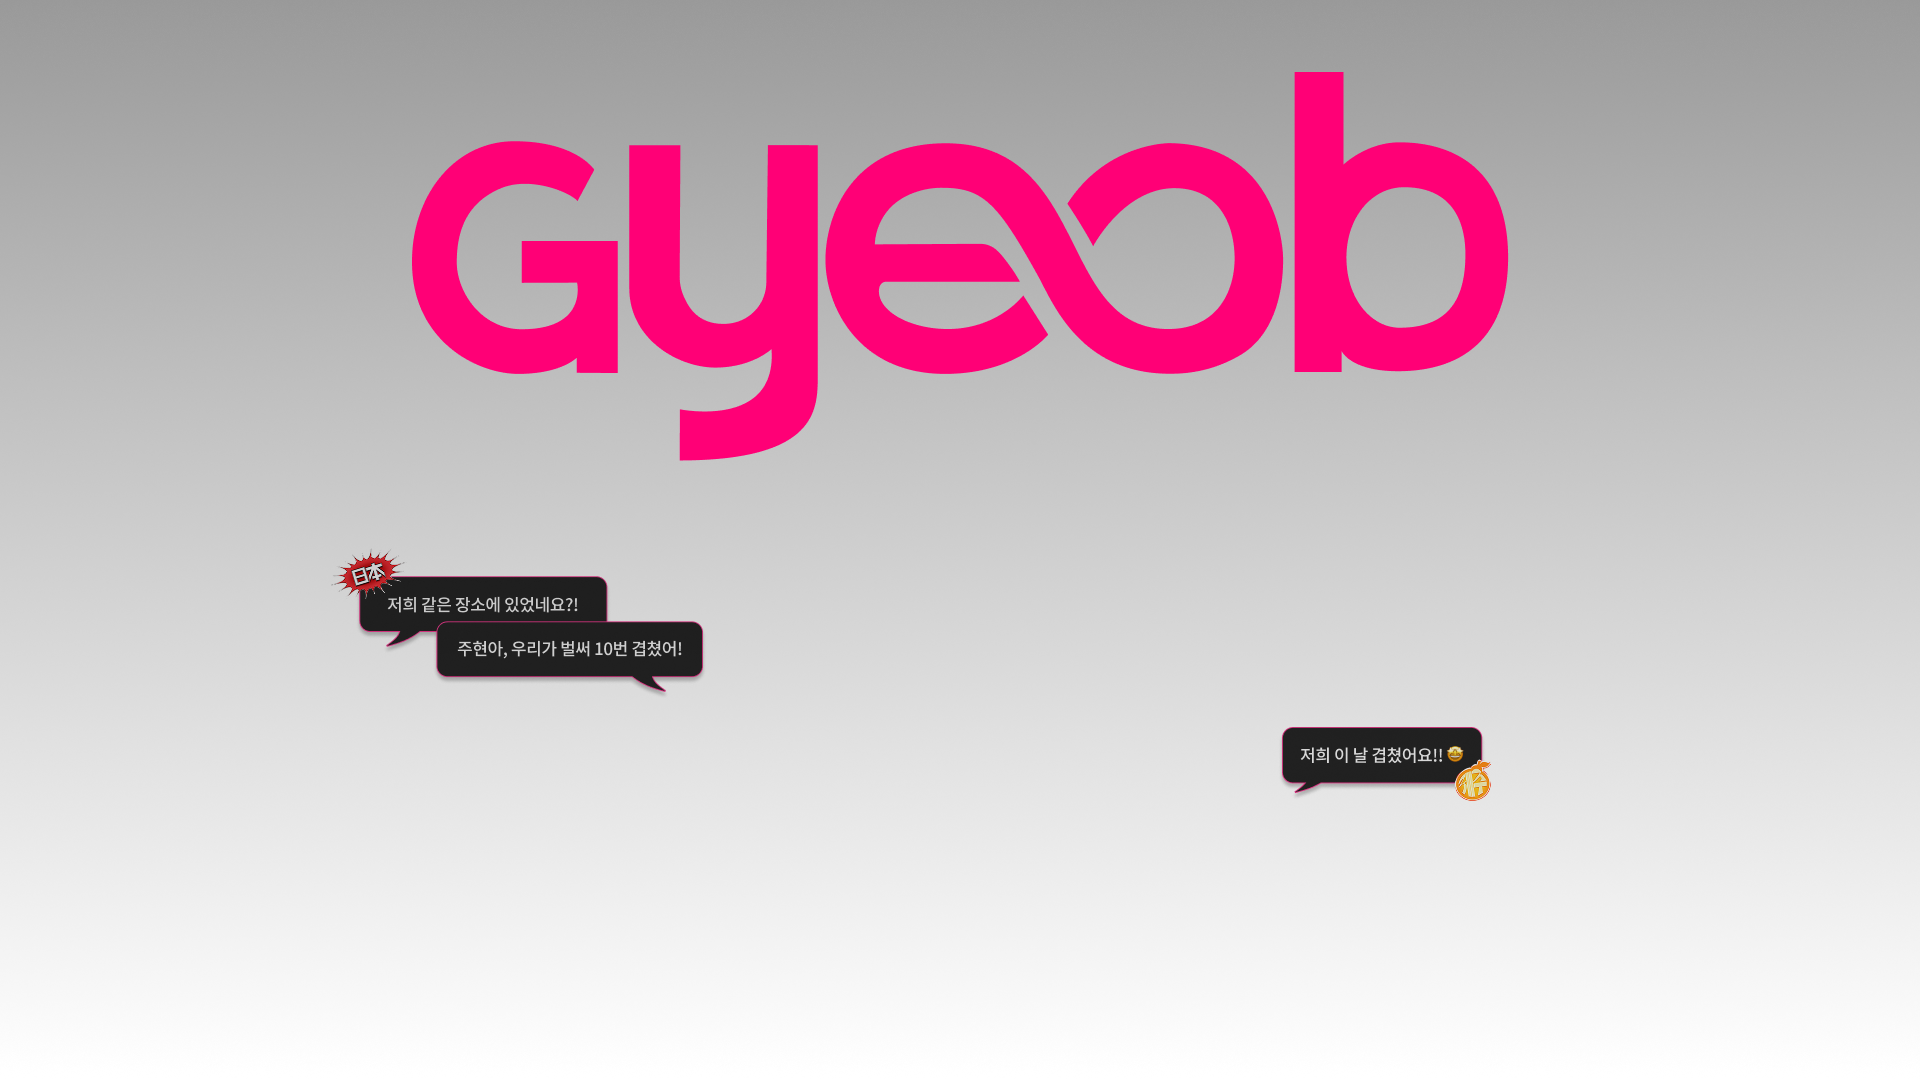
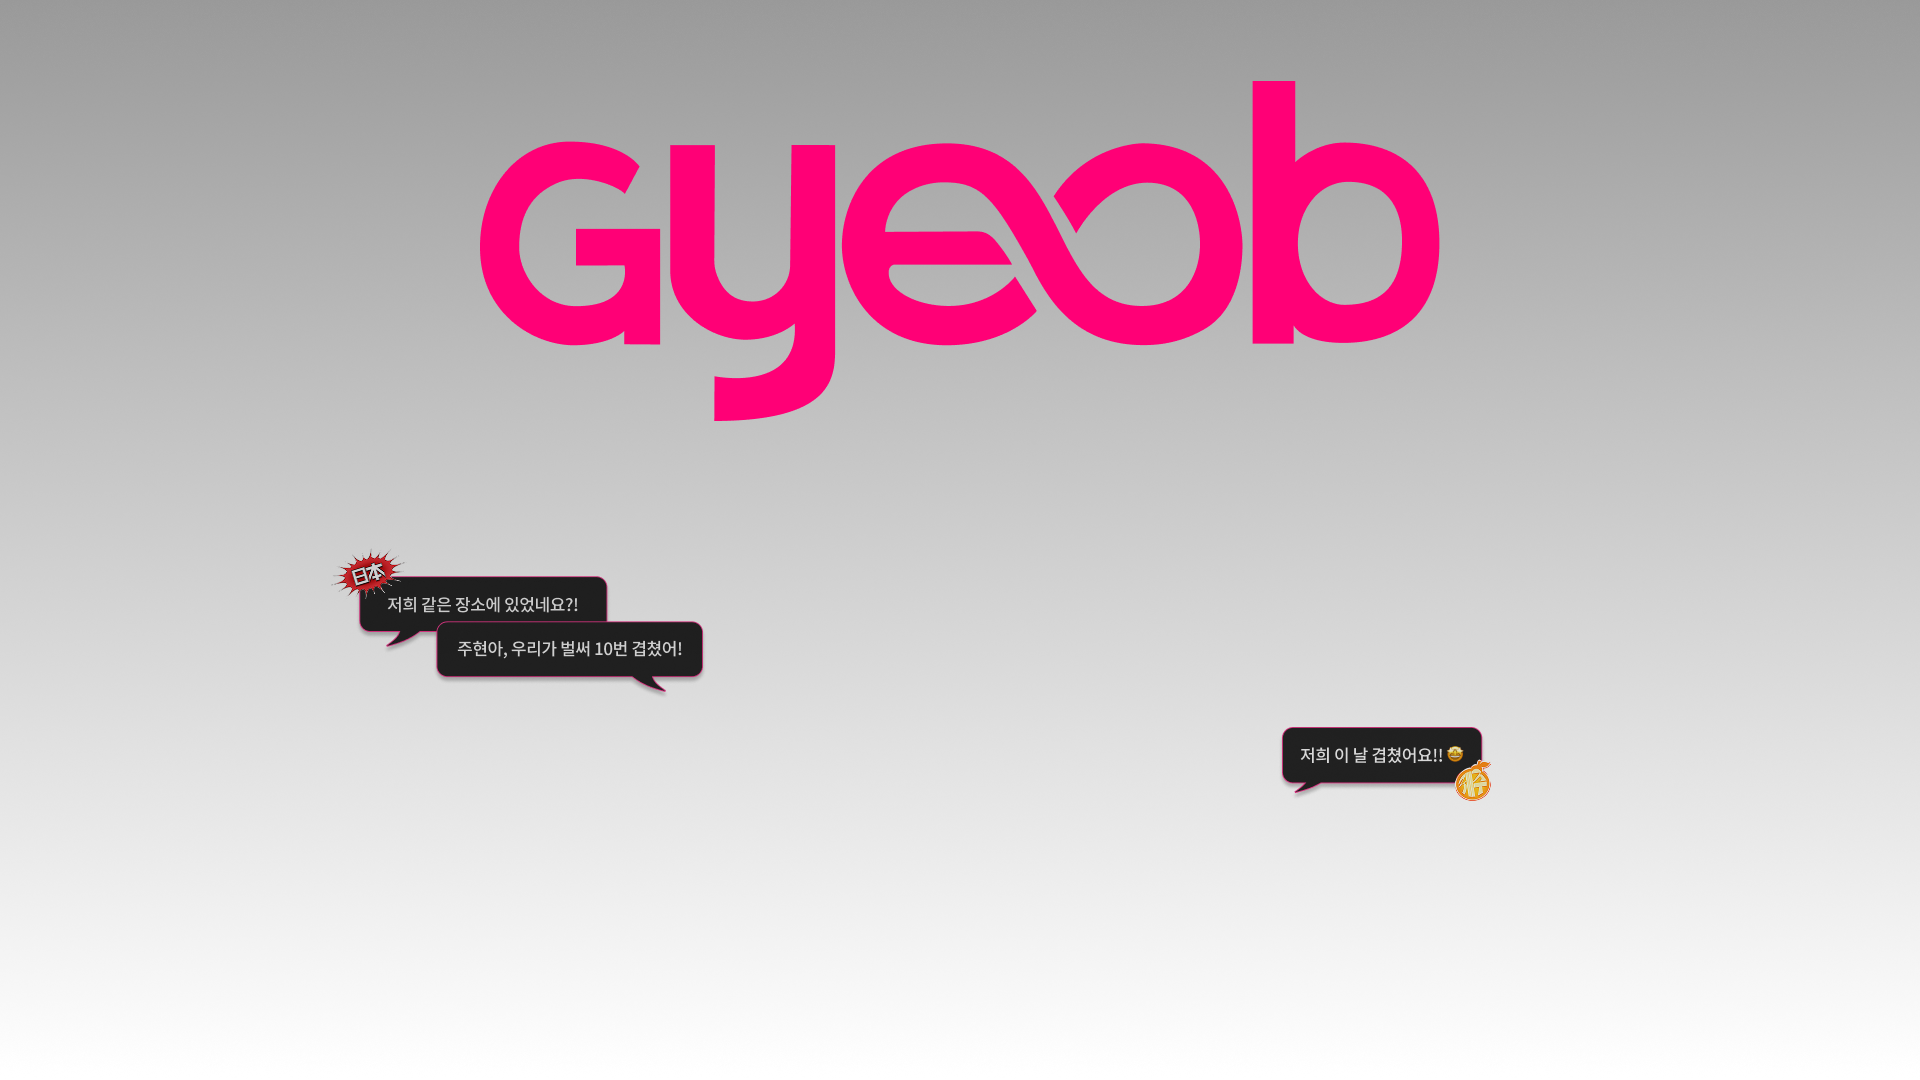
v6

Changed region(s): [[0.1875, 0.0611, 0.8125, 0.4278]]

diff --git a/style.css b/style.css
@@ -34,7 +34,7 @@ body {
     top: 2%;
     left: 50%;
     transform: translateX(-50%);
-    width: 27%;
+    width: 25%;
     background: rgba(52, 52, 52, 0.5); 
     z-index: 100;
     display: flex;
@@ -63,7 +63,7 @@ body {
     color: #F63A91;
     padding: 0.5em 1em;
     display: block;
-    font-size: 1.25vw;
+    font-size: 1.1vw;
     font-weight: 600;
 }
 
@@ -957,7 +957,7 @@ svg {
 }
 
 .main11_box video {
-    width: 90%;
+    width: 65%;
     height: auto;
 }
 
@@ -1094,6 +1094,7 @@ align-items: center; /* 세로 중앙 정렬 */
     padding: 5% 5%;
     position: relative;
     height: 100dvh;
+    margin-top: 6vw;
 }
 
 
